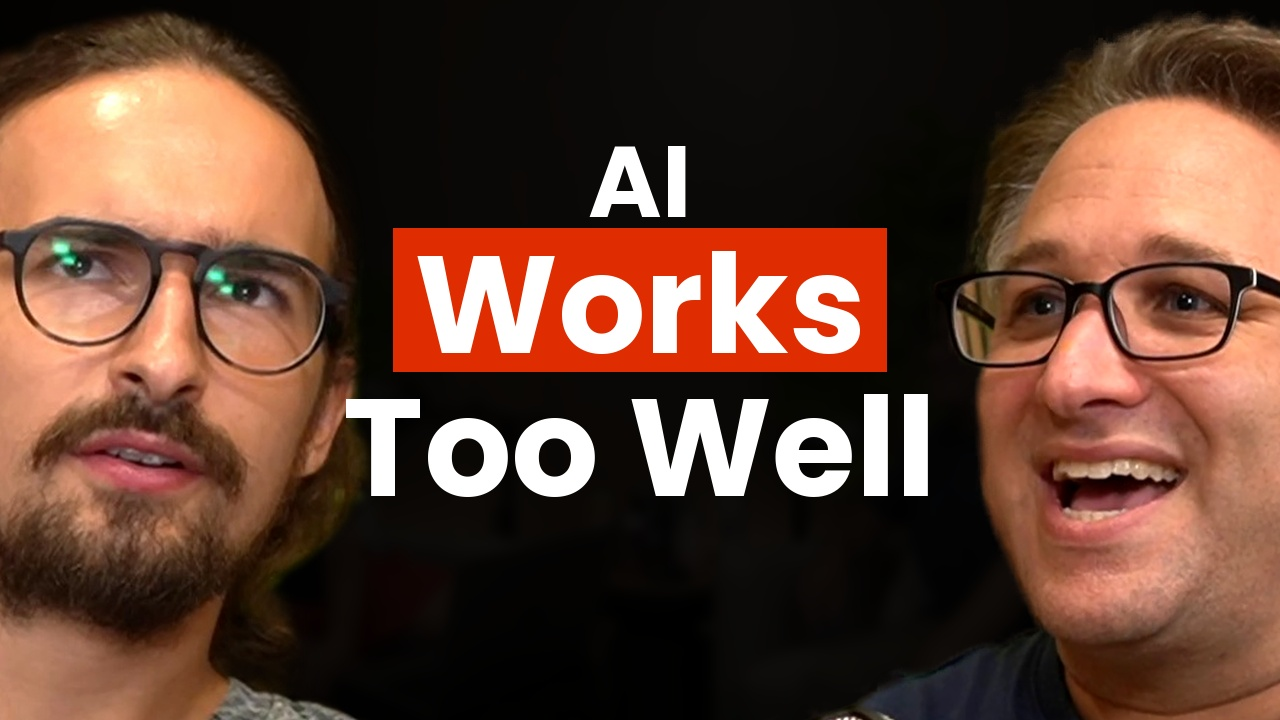
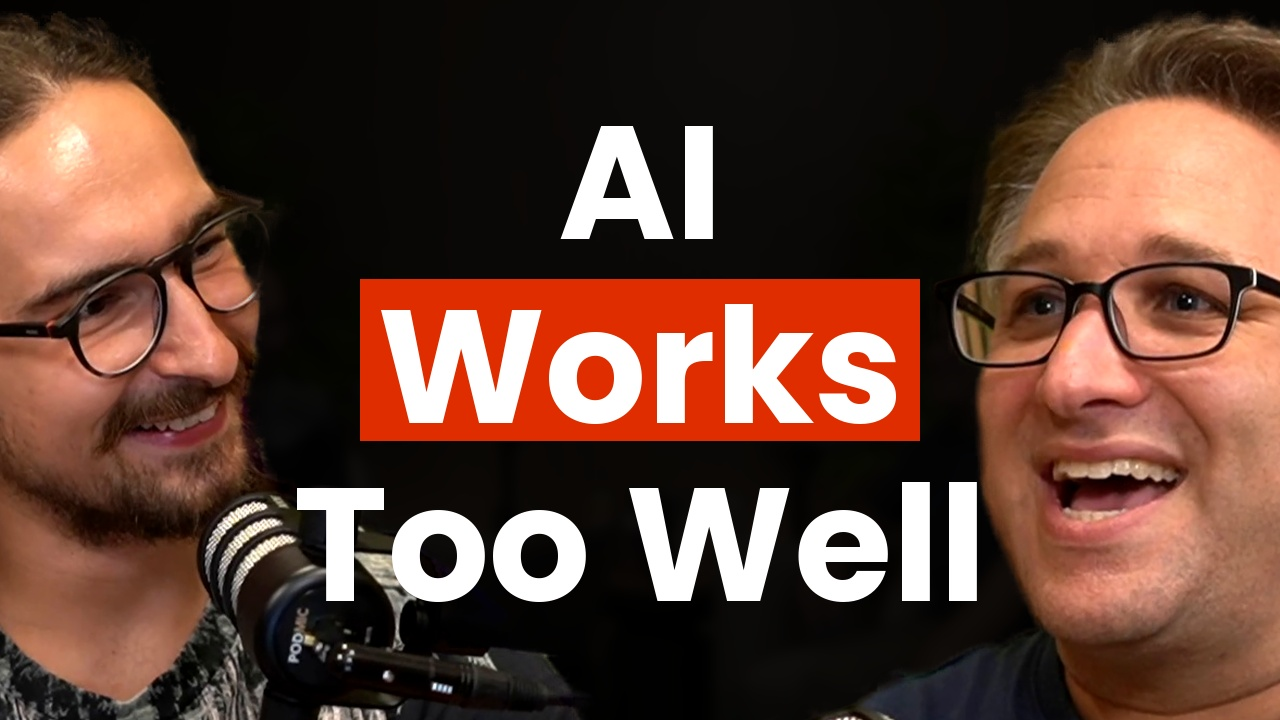
Thumbnails neu gebaut: Blick nach innen, Copy zentriert, Satz nach seinem Canva-File
Seine Kritik an Runde 1 war in allen drei Punkten berechtigt und ist behoben.

Blickrichtung: beide Gesichter schauen jetzt nach innen. Vorher stand er mit
einem fast frontalen Bild da und schaute am Gast vorbei. Neue Bilder fuer ihn
bei 92,97 s und 93,47 s, fuer Aaronson zusaetzlich 2703,50 s.

Copy zentriert: der Textblock sass bei y rund 323, jetzt auf 360 - der
Bildmitte, und dem Mittel seiner drei veroeffentlichten Zwei-Kopf-Thumbnails.

Zeilenabstand gleichmaessig: der Setzer gab jeder Zeile eine eigene
Versalhoehe. Sein Canva-File zeigt, dass ein Textblock genau einen fontSize
und genau einen lineHeight hat, meist 1,11, textAlign center. Genau so setzt
thumbnail_bau.py jetzt, mit automatischer Gradwahl innerhalb seiner Spanne
von 104 bis 175.

Der Canva-Connector ist verbunden. Sein Arbeitsfile TN: YNB Podcast - Danny
liefert die Werte direkt statt geschaetzt: Kastenfarbe df2d00 statt meiner
Schaetzung DF2C00, Polster 0,10 mal Grad, Kastenhoehe 1,01 mal Grad. Brand
Templates und Autofill gibt es in dem Konto nicht, der Weg ist erledigt.

Festgehalten, dass Blickrichtung nicht zuverlaessig messbar ist: der Versuch
ueber Nase gegen Augenmitte liefert bei Profilaufnahmen zufaellige
Vorzeichen. Sie wird angeschaut, nicht gerechnet.

diff --git a/video/thumbnail_bau.py b/video/thumbnail_bau.py
@@ -17,7 +17,10 @@ import numpy as np
 from PIL import Image, ImageDraw, ImageEnhance, ImageFilter, ImageFont
 
 BREITE, HOEHE = 1280, 720
-KASTEN = (0xDF, 0x2C, 0x00)
+KASTEN = (0xDF, 0x2D, 0x00)   # aus seinem Canva-File, nicht aus dem JPEG geschaetzt
+ZEILENHOEHE = 1.11            # Canva lineHeight, der haeufigste Wert in seinem File
+KASTEN_H = 1.01               # Kastenhoehe / Schriftgrad, Median seiner sieben Kaesten
+KASTEN_PAD = 0.10             # seitliches Polster / Schriftgrad, ebenda
 CAP = 0.700          # Versalhoehe von Poppins in em, gemessen
 HIER = os.path.dirname(os.path.abspath(__file__))
 SCHRIFT = os.path.join(HIER, 'marke', 'Poppins-Bold.ttf')
@@ -122,50 +125,68 @@ def hintergrund(pfad, dunkel=0.08, weich=6.0):
 
 
 def _mass(zeichner, text, font):
-    """Tintenmass eines Wortes: Breite, Versalhoehe, Versatz zur Grundlinie."""
+    """Tintenmass eines Wortes: Breite, Links- und Oben-Versatz."""
     l, t, r, b = zeichner.textbbox((0, 0), text, font=font)
     return r - l, l, t
 
 
-def satz(bild, zeilen, mitte_x, oben_y, nach_links=False):
-    """zeilen: Liste von (text, versalhoehe, kasten?)
+def satz(bild, zeilen, kasten_index, mitte_x=640, mitte_y=360,
+         max_breite=760, max_hoehe=470, grad=None):
+    """Alle Zeilen in EINEM Schriftgrad und EINEM Zeilenabstand setzen.
 
-    Vor und nach einer Kastenzeile kommt etwas mehr Luft, sonst klebt das
-    kleine Wort darueber auf der Kastenkante — in seinen Vorlagen steht dort
-    eine sichtbare Lucke.
+    So macht er es selbst: in seinem Canva-File hat ein Textblock genau einen
+    `fontSize` und genau einen `lineHeight` (meist 1.11), `textAlign: center`.
+    Ein frueherer Entwurf hier gab jeder Zeile eine eigene Versalhoehe — damit
+    wird der Zeilenabstand ungleich und der Block franst aus.
+
+    Der Block wird auf `mitte_y` zentriert. Der Grad wird, wenn nicht gesetzt,
+    so gross gewaehlt wie Breite und Hoehe es zulassen.
     """
     d = ImageDraw.Draw(bild)
-    y = oben_y
-    for i, (text, cap, kasten) in enumerate(zeilen):
-        if kasten and i > 0:
-            y += int(zeilen[i - 1][1] * 0.20)
-        f = ImageFont.truetype(SCHRIFT, int(round(cap / CAP)))
-        br, lx, ty = _mass(d, text, f)
-        polster_x = int(cap * 0.22)          # gemessen: 15-30 px bei cap 82-100
-        polster_o = int(cap * 0.24)
-        polster_u = int(cap * 0.26)
-        if nach_links:
-            x = mitte_x
-        else:
-            x = int(mitte_x - br / 2)
-        if kasten:
-            d.rectangle([x - polster_x, y - polster_o,
-                         x + br + polster_x, y + cap + polster_u], fill=KASTEN)
-        d.text((x - lx, y - ty), text, font=f, fill=(255, 255, 255))
-        y += int(cap * 1.30) + (int(cap * 0.20) if kasten else 0)
-    return bild
+
+    def passt(g):
+        f = ImageFont.truetype(SCHRIFT, g)
+        breit = max(_mass(d, t, f)[0] for t in zeilen)
+        hoch = (len(zeilen) - 1) * g * ZEILENHOEHE + g * CAP
+        return breit <= max_breite and hoch <= max_hoehe
+
+    if grad is None:
+        grad = 60
+        while grad < 175 and passt(grad + 1):
+            grad += 1
+
+    f = ImageFont.truetype(SCHRIFT, grad)
+    cap = grad * CAP
+    schritt = grad * ZEILENHOEHE
+    block = (len(zeilen) - 1) * schritt + cap
+    y = mitte_y - block / 2                      # Oberkante der ersten Versalhöhe
+
+    for i, text in enumerate(zeilen):
+        breit, lx, ty = _mass(d, text, f)
+        x = mitte_x - breit / 2
+        oben = y + i * schritt
+        if i == kasten_index:
+            kh = grad * KASTEN_H
+            kp = grad * KASTEN_PAD
+            ky = oben + cap / 2 - kh / 2
+            d.rectangle([x - kp, ky, x + breit + kp, ky + kh], fill=KASTEN)
+        d.text((x - lx, oben - ty), text, font=f, fill=(255, 255, 255))
+    return bild, grad
 
 
-def bauen(hg, links, rechts, zeilen, ziel, text_mitte=640, text_oben=146,
+def bauen(hg, links, rechts, zeilen, kasten, ziel, text_mitte=640,
+          text_mitte_y=360, max_breite=760, max_hoehe=470, grad=None,
           hg_dunkel=0.08, hg_weich=6.0, ziel_links=None, ziel_rechts=None):
+    """zeilen: Liste von Texten · kasten: Index der Zeile mit dem Kasten."""
     bild = hintergrund(hg, dunkel=hg_dunkel, weich=hg_weich)
     if links:
         kopf_setzen(bild, links, ziel_links or ZIEL_LINKS)
     if rechts:
         kopf_setzen(bild, rechts, ziel_rechts or ZIEL_RECHTS)
-    satz(bild, zeilen, text_mitte, text_oben)
+    _, grad = satz(bild, zeilen, kasten, text_mitte, text_mitte_y,
+                   max_breite, max_hoehe, grad)
     bild.convert('RGB').save(ziel, quality=95)
-    return ziel
+    return ziel, grad
 
 
 if __name__ == '__main__':
@@ -175,4 +196,5 @@ if __name__ == '__main__':
     with open(a.plan) as fh:
         plan = json.load(fh)
     for f in plan:
-        print(bauen(**f))
+        pfad, grad = bauen(**f)
+        print(f'{pfad}  (Schriftgrad {grad})')

diff --git a/video/thumbnails/README.md b/video/thumbnails/README.md
@@ -10,12 +10,16 @@ keine erfundenen Gesichter, kein erzeugter Hintergrund.
 
 | | Quelle | Rohzeit | was da passiert |
 |---|---|---|---|
-| **Yannick** | `Right Cam` | **88:23,5** (5303,50 s) | hochgezogene Brauen, offener Mund — Reaktion |
-| | | **88:22** (5302,00 s) | dasselbe, Brauen härter |
-| | | **44:56** (2695,97 s) | echtes Lachen, Profil |
+| **Yannick** | `Right Cam` | **01:33** (92,97 s) | Dreiviertel nach rechts, offenes Lächeln, beide Augen sichtbar |
+| | | **01:33,5** (93,47 s) | dasselbe, Mund weiter offen |
+| | | **44:56** (2695,97 s) | echtes Lachen, stärker im Profil |
 | **Aaronson** | `Left Camera` | **45:01,5** (2701,50 s) | offener Mund, Augen weit — beim Ilya-Satz |
+| | | **45:03,5** (2703,50 s) | spricht, Augen engagiert |
 | | | **96:36,5** (5796,47 s) | grosses Lachen, Brauen hoch |
 | | | **01:35,5** (95,47 s) | warmes Lachen |
+
+**Alle sechs schauen nach innen** — er nach rechts, Aaronson nach links.
+Das war die erste Runde nicht so, und es war der schwerste Fehler darin.
 | **Hintergrund** | `Middle Camera` | **45:02** (2702,00 s) | der echte Raum, auf 8 % abgedunkelt und weichgezeichnet |
 
 Kamerazeit = Rohzeit = Transkriptzeit (beide Dateien laufen 6136 s, das
@@ -30,9 +34,11 @@ Transkript 6134 s).
 | `aaronson-3-broke-math.jpg` | AI Just / **Broke** / Math | Broke | „The unit distance conjecture … was falsified by an OpenAI model." (58:03) |
 | `aaronson-4-love-humanity.jpg` | Make AI / **Love** / Humanity | Love | Ilyas Frage: „what is the mathematical definition of what it means for the AI to love humanity?" (44:46) |
 
-**Nummer 1 ist meine Empfehlung.** Sie trägt den stärksten Satz der Folge, und
-die beiden Gesichter arbeiten gegeneinander: er ernst und angespannt, Aaronson
-offen und lachend.
+**Nummer 1 ist meine Empfehlung.** Sie trägt den stärksten Satz der Folge.
+
+**Nummer 3 ist die wärmste** — beide lachen und schauen sich an. Wenn Nummer 1
+Dir zu frontal ist, ist 3 die Alternative, die am meisten nach Gespräch
+aussieht.
 
 **Nummer 3 nimmt sich die meiste Freiheit.** „Broke Math" ist zugespitzt — er
 sagt, ein Modell habe *eine Vermutung widerlegt*, nicht die Mathematik
@@ -43,10 +49,14 @@ kaputtgemacht. Wenn Dir das zu weit geht, ist die Fassung raus.
 | | Vorgabe aus seinen Folgen | diese vier |
 |---|---|---|
 | Format | 1280×720 | 1280×720 ✓ |
-| Kastenfarbe | `#DF2C00` | `#DF2C01` (JPEG-Rundung) ✓ |
-| Kastenbreite | 414–853 | 382–785 ✓ |
-| Kastenhöhe | 119–172 | 126–151 ✓ |
-| Kastenmitte x | 616–644 (Bildmitte 640) | 639,5–640 ✓ |
+| Kastenfarbe | `#DF2D00` (aus seinem Canva-File) | `#DF2D00` ✓ |
+| Kastenbreite | 414–853 | 376–780 ✓ |
+| Kastenhöhe | 119–172 | 123–162 ✓ |
+| Kastenmitte x | 616–644 (Bildmitte 640) | 639,5 ✓ |
+| Blockmitte y | ~360 (Bildmitte) | auf 360 gesetzt ✓ |
+| Schriftgrad je Block | einer, 104–175 | einer, 121–160 ✓ |
+| Zeilenabstand | 1,11 × Grad, gleichmässig | 1,11, gleichmässig ✓ |
+| Blick | beide nach innen | beide nach innen ✓ |
 | Augen links | 170 / 281 | gesetzt ✓ |
 | Augen rechts | 1109 / 304 | gesetzt ✓ |
 | Kästen im Bild | genau einer | genau einer ✓ |
@@ -54,13 +64,29 @@ kaputtgemacht. Wenn Dir das zu weit geht, ist die Fassung raus.
 
 Dateigrösse 154–168 KB, YouTube erlaubt 2 MB.
 
+## Was in Runde 1 falsch war
+
+Seine drei Punkte, alle berechtigt:
+
+1. **Blickrichtung.** Ich hatte ihn mit einem fast frontalen Bild gesetzt, auf
+   dem er an Aaronson vorbeischaut. Jetzt schauen beide nach innen.
+2. **Copy nicht zentral.** Der Block sass bei y≈323 statt auf der Bildmitte.
+   Jetzt auf 360, wie bei seinen eigenen drei Zwei-Kopf-Thumbnails gemessen.
+3. **Zeilenabstand ungleich.** Ich hatte jeder Zeile eine eigene Versalhöhe
+   gegeben. Sein Canva-File zeigt: ein Grad, ein Zeilenabstand je Block.
+
 ## Was ich noch nicht weiss
 
 - **Ob Poppins Bold wirklich Deine Schrift ist.** Gemessen passt sie auf unter
-  1 px je Buchstabe, zweimal unabhängig. Bestätigen musst Du.
-- **Ob Dir die Mimik-Auswahl taugt.** Ich habe 321 Einzelbilder an 17 Stellen
-  gezogen und durchgesehen; die sechs oben sind meine Auswahl, nicht die
-  einzige mögliche. Sag, wenn Du einen anderen Moment willst — Zeitstempel
+  1 px je Buchstabe, zweimal unabhängig; dazu ergeben ihre Tintenbreiten in
+  Deinem Canva-File bei fünf Wörtern ein gleichmässiges Kastenpolster. Dein
+  File nennt die Schrift nur als `YAFdJjbTu24,1`, nicht im Klartext —
+  **den Namen kannst nur Du bestätigen.**
+- **Ob Dir die Mimik-Auswahl taugt.** Ich habe 324 Einzelbilder an 17 Stellen
+  gezogen und durchgesehen; die oben sind meine Auswahl, nicht die
+  einzige mögliche. Innerhalb der Bilder mit richtiger Blickrichtung ist die
+  Auswahl deutlich kleiner als ich zuerst dachte — die ausdrucksstärksten
+  Momente sind oft genau die, in denen einer von Euch in die Kamera schaut. Sag, wenn Du einen anderen Moment willst — Zeitstempel
   genügt, dann hole ich das Bild.
 - **Ob der Hintergrund so bleiben soll.** Gerade ist es der eigene Raum, stark
   abgedunkelt. In `ewgUIZGJaWQ` steht in der Mitte stattdessen ein echtes

diff --git a/video/thumbnails.md b/video/thumbnails.md
@@ -53,9 +53,11 @@ oben links, Kastenmitte bei x = 464.
 
 ### Der orangerote Kasten
 
-**`#DF2C00`.** Nachgemessen über alle sechs: der mit Abstand häufigste Wert ist
-in jedem einzelnen Bild derselbe Farbeimer, `#DE2A00` (Rasterung auf 6er-Stufen),
-Zweitwert `#D82A00` — das ist JPEG-Rand, kein zweiter Farbton. **Bestätigt.**
+**`#DF2D00`** — aus seinem Canva-File abgelesen, nicht mehr geschätzt.
+
+Meine Schätzung aus den JPEGs war `#DF2C00`, in der letzten Ziffer daneben.
+Das Canva-File sagt `#df2d00`, und das ist die Quelle. **Immer diesen Wert
+nehmen.**
 
 Gemessene Geometrie:
 
@@ -128,6 +130,69 @@ seiner Bestätigung: meine Messung schlägt seine Abnahme nicht.
    Der einzelne Kopf in Aufbau B ist **der Gast**, nicht er — in
    `-0NES3TOiIg`, `GxpvzT3rUBQ` und `f79ehF4zP3I` steht dort derselbe
    Gast-Kopf rechts, und Yannick kommt im Bild gar nicht vor.
+
+## Sein Canva-File — die Quelle, nicht mehr die Schätzung
+
+Seit dem 20.10. ist der Connector verbunden. Sein Arbeitsfile heisst
+**`TN: YNB Podcast - Danny`** (`DAHTeSc4G4U`), elf Seiten, je 1280×720. „TN"
+= Thumbnail. Es gibt **keine Brand Templates und kein Autofill** — das File
+ist eine normale Sammlung von Seiten, keine befüllbare Vorlage. Der
+Autofill-Weg ist damit erledigt.
+
+Was direkt daraus kommt, statt gemessen zu werden:
+
+| | Wert | Herkunft |
+|---|---|---|
+| Kastenfarbe | **`#df2d00`** | `paths[].fill.color` |
+| Schriftverweis | `YAFdJjbTu24,1` | `formatting.fontRef` |
+| Ausrichtung | `center` | `formatting.textAlign` |
+| Zeilenabstand | **1,11** (einmal 1,02, einmal 1,22) | `formatting.lineHeight` |
+| Schriftgrade | 104,5 · 107,7 · 116 · 122,2 · 132,6 · 137,9 · 161,3 · 163,8 · 175,0 | `formatting.fontSize` |
+
+### Die Satzregel, die ich vorher falsch hatte
+
+**Ein Textblock hat genau einen Schriftgrad und genau einen Zeilenabstand.**
+Nicht eine eigene Versalhöhe je Zeile. Steht so in jedem `textRegion` seines
+Files. Mein erster Entwurf gab jeder Zeile ihre eigene Grösse — damit wird der
+Zeilenabstand ungleich und der Block franst aus. **Er hat das sofort gesehen
+und benannt.**
+
+### Kastenmasse, aus fünf seiner Kästen gerechnet
+
+Kasten als Rechteck hinter genau einer Zeile, `cornerRounding: 0`:
+
+| Wort | Grad | Tinte | Kasten | Polster seitl. | Höhe / Grad |
+|---|---:|---:|---:|---:|---:|
+| GOD | 116,0 | 264 | 288,2 | 12,1 | 1,010 |
+| Coincidence? | 104,5 | 728 | 747,4 | 9,7 | 1,193 |
+| REALLY | 107,7 | 384 | 406,1 | 11,1 | 0,942 |
+| TRAP | 163,8 | 427 | 452,0 | 12,5 | 1,218 |
+| PAST | 161,3 | 413 | 448,2 | 17,6 | 0,932 |
+
+→ **Polster seitlich ≈ 0,10 × Schriftgrad · Kastenhöhe ≈ 1,01 × Schriftgrad.**
+
+Nebenbei: dass Poppins-Bold-Tintenbreiten bei fünf verschiedenen Wörtern in
+fünf verschiedenen Graden durchweg ein plausibles, gleichmässiges Polster
+ergeben, ist ein weiterer unabhängiger Beleg für die Schrift.
+
+## Die Blickrichtung — die Regel, die ich zuerst gebrochen habe
+
+**Beide schauen nach innen. Er links nach rechts, der Gast rechts nach links.**
+Das steht oben im Bauplan seit der ersten Messung, und ich habe mir trotzdem
+ein Bild ausgesucht, auf dem er geradeaus schaut. Seine Rückmeldung:
+*„Mein Gesicht soll natürlich den Gast anschauen."*
+
+**Das ist nicht verhandelbar und geht der Mimik vor.** Lieber ein etwas
+ruhigeres Gesicht mit richtiger Blickrichtung als ein ausdrucksstarkes, das
+ins Leere schaut.
+
+**Automatisch messen lässt sich das nicht zuverlässig.** Ich habe es über die
+Nase gegen die Augenmitte versucht (YuNet) — bei Profilaufnahmen setzt der
+Detektor die Punkte irgendwohin ins Unscharfe, und das Vorzeichen wird
+Zufall. Geprüft an `y_2695`: Messung sagte „nach links gedreht", das Bild
+zeigt eindeutig nach rechts. **Blickrichtung wird angeschaut, nicht
+gerechnet.** Zur Platzierung taugt YuNet, zur Kopfdrehung nicht.
+
 
 ## Die Platzierung, aus seinen Thumbnails gemessen
 
